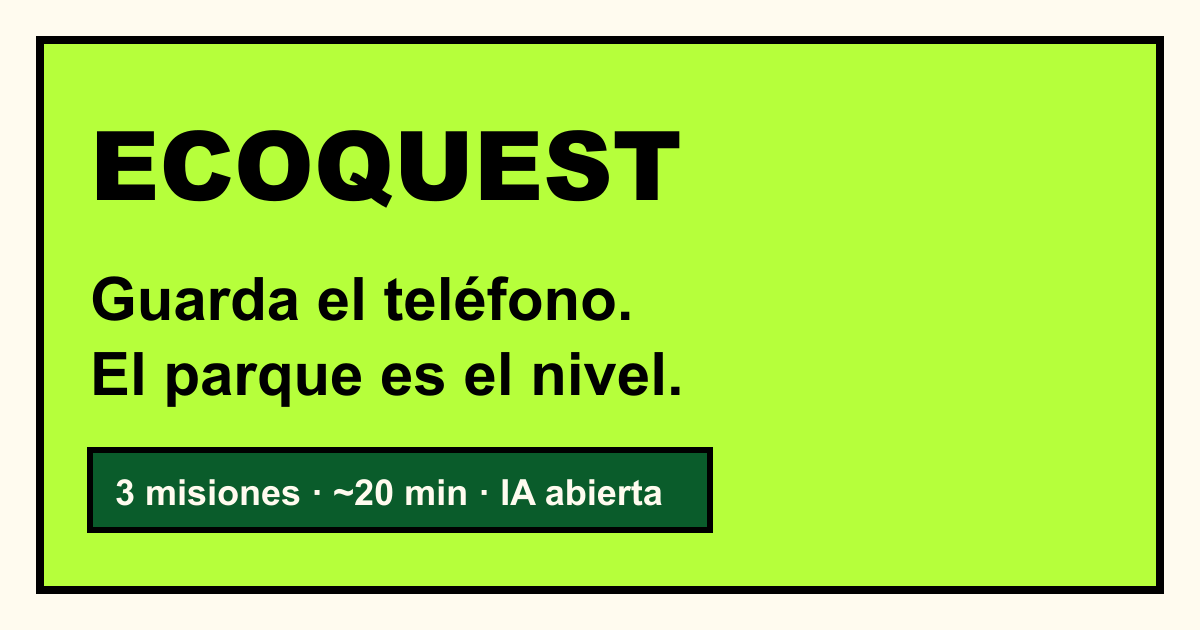
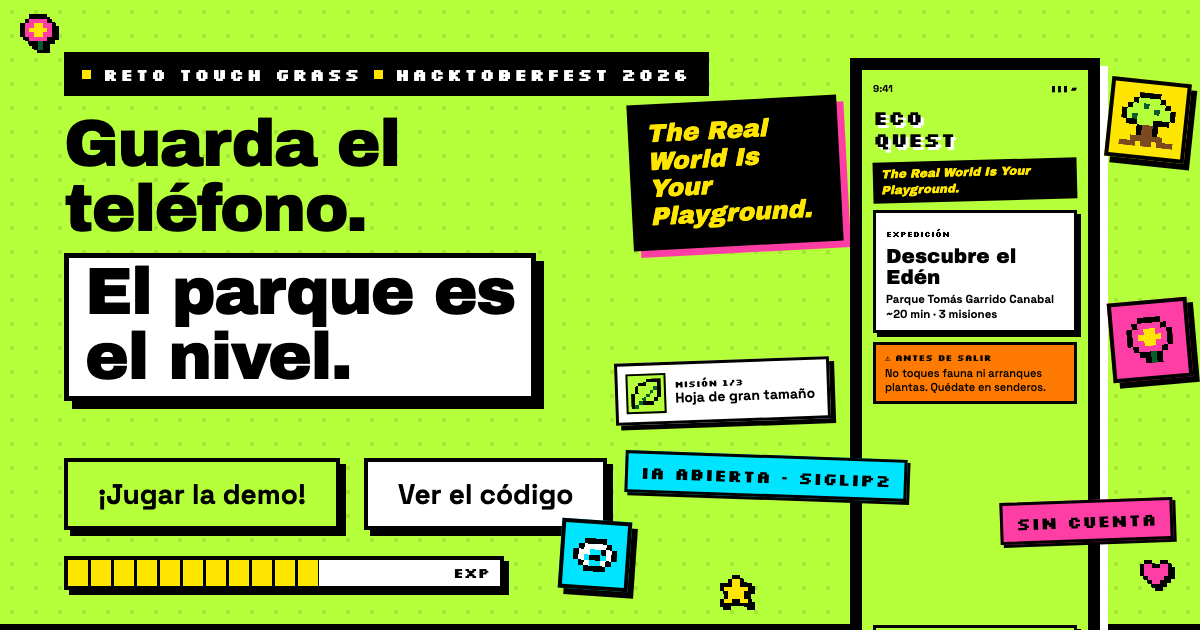
Web: nueva imagen OG basada en el hero de la landing
Reemplaza opengraph-image y twitter-image (1200x630) y agrega la fuente
editable en web/scripts/og-image.html.

diff --git a/web/scripts/og-image.html b/web/scripts/og-image.html
@@ -1,0 +1,69 @@
+<!doctype html>
+<html lang="es-MX"><head><meta charset="utf-8">
+<style>
+@import url("https://fonts.googleapis.com/css2?family=Archivo+Black:ital@0;1&family=Silkscreen:wght@700&family=Space+Grotesk:wght@500;700&display=swap");
+*{box-sizing:border-box;margin:0;padding:0}
+html,body{width:1200px;height:630px;overflow:hidden}
+body{position:relative;background:#B6FF3B;font-family:"Space Grotesk",sans-serif;color:#000;
+  background-image:radial-gradient(#A4E635 2px,transparent 2.5px);background-size:24px 24px}
+.px{position:absolute;image-rendering:pixelated;filter:drop-shadow(3px 3px 0 #000)}
+.eyebrow{position:absolute;left:64px;top:52px;background:#000;color:#fff;font:700 17px "Silkscreen",monospace;letter-spacing:2.5px;padding:11px 18px;display:flex;align-items:center;gap:12px}
+.eyebrow i{width:9px;height:9px;background:#FFE600;display:block}
+h1{position:absolute;left:64px;top:112px;font:400 66px/.98 "Archivo Black",sans-serif;letter-spacing:-1.6px}
+h1 span{display:inline-block;margin-top:12px;background:#fff;border:5px solid #000;box-shadow:8px 8px 0 #000;padding:2px 16px 6px}
+.btn{position:absolute;left:64px;top:458px;font:700 28px "Space Grotesk",sans-serif;background:#B6FF3B;border:4px solid #000;box-shadow:6px 6px 0 #000;padding:14px 30px}
+.btn2{left:364px;background:#fff}
+.xp{position:absolute;left:64px;top:556px;width:440px;height:34px;border:4px solid #000;background:#fff;box-shadow:5px 5px 0 #000}
+.xp b{position:absolute;inset:0 auto 0 0;width:58%;background:repeating-linear-gradient(90deg,#FFE600 0 20px,#000 20px 23px)}
+.xp em{position:absolute;right:10px;top:4px;font:700 14px "Silkscreen",monospace;font-style:normal}
+.sticker{position:absolute;font:700 17px "Silkscreen",monospace;letter-spacing:.5px;border:3px solid #000;padding:7px 13px;box-shadow:3px 3px 0 #000;white-space:nowrap}
+.quote{position:absolute;left:630px;top:100px;width:210px;background:#000;color:#FFE600;padding:16px 18px 20px;transform:rotate(-3deg);box-shadow:7px 7px 0 #FF3EA5;font:italic 400 25px/1.1 "Archivo Black",sans-serif;z-index:1}
+.phone{position:absolute;left:850px;top:58px;width:250px;height:640px;background:#000;border:0;padding:12px;box-shadow:8px 8px 0 #fff;z-index:2}
+.screen{background:#B6FF3B;height:100%;padding:12px 11px;display:flex;flex-direction:column;gap:9px}
+.sbar{display:flex;justify-content:space-between;font-size:10px;font-weight:700;margin-bottom:2px}
+.logo{font:700 20px/1.12 "Silkscreen",monospace;text-shadow:3px 3px 0 #fff}
+.tag{align-self:flex-start;background:#000;color:#FFE600;font:italic 400 12px/1.3 "Archivo Black",sans-serif;padding:5px 8px;transform:rotate(-1.5deg)}
+.card{background:#fff;border:3px solid #000;box-shadow:4px 4px 0 #000;padding:8px 10px}
+.card small{font:700 8px "Silkscreen",monospace}
+.card h3{font:400 20px/1.05 "Archivo Black",sans-serif;margin:4px 0}
+.card p{font-size:11.5px;font-weight:700;line-height:1.3}
+.safety{background:#FF7A00;border:3px solid #000;padding:7px 9px;font-size:11px;font-weight:500;line-height:1.3}
+.safety b{display:block;font:700 9px "Silkscreen",monospace;margin-bottom:3px}
+.go{margin-top:auto;text-align:center;background:#B6FF3B;border:3px solid #000;box-shadow:4px 4px 0 #000;font:700 18px "Space Grotesk";padding:10px}
+.mission{position:absolute;left:615px;top:360px;width:215px;background:#fff;border:3px solid #000;box-shadow:5px 5px 0 #000;padding:8px;display:flex;gap:9px;align-items:center;transform:rotate(-2deg);z-index:3}
+.mission .ic{width:40px;height:40px;border:2px solid #000;background:#B6FF3B;display:flex;align-items:center;justify-content:center}
+.mission small{font:700 9px "Silkscreen",monospace;display:block}
+.mission b{font-size:14px;line-height:1.15;display:block}
+.tile{position:absolute;border:4px solid #000;box-shadow:6px 6px 0 #000;display:flex;align-items:center;justify-content:center;z-index:3}
+.tile img{image-rendering:pixelated}
+</style></head><body>
+<img class="px" src="../public/landing/icons/flower.svg" width="36" height="36" style="left:20px;top:14px">
+
+<div class="eyebrow"><i></i>RETO TOUCH GRASS<i></i>HACKTOBERFEST 2026</div>
+<h1>Guarda el<br>teléfono.<br><span>El parque es<br>el nivel.</span></h1>
+<div class="btn">¡Jugar la demo!</div>
+<div class="btn btn2">Ver el código</div>
+<div class="xp"><b></b><em>EXP</em></div>
+
+<div class="quote">The Real World Is Your Playground.</div>
+<div class="phone"><div class="screen">
+  <div class="sbar"><span>9:41</span><span>▮▮▮ ▰</span></div>
+  <div class="logo">ECO<br>QUEST</div>
+  <div class="tag">The Real World Is Your Playground.</div>
+  <div class="card"><small>EXPEDICIÓN</small><h3>Descubre el Edén</h3><p>Parque Tomás Garrido Canabal<br>~20 min · 3 misiones</p></div>
+  <div class="safety"><b>⚠ ANTES DE SALIR</b>No toques fauna ni arranques plantas. Quédate en senderos.</div>
+  <div class="go">¡Comenzar!</div>
+</div></div>
+
+<div class="mission"><div class="ic"><img src="../public/landing/icons/leaf.svg" width="30" height="30" style="image-rendering:pixelated"></div><div><small>MISIÓN 1/3</small><b>Hoja de gran tamaño</b></div></div>
+
+<div class="tile" style="left:1108px;top:80px;width:80px;height:80px;background:#FFE600;transform:rotate(6deg)"><img src="../public/landing/icons/tree.svg" width="54" height="54"></div>
+<div class="tile" style="left:1110px;top:300px;width:80px;height:80px;background:#FF3EA5;transform:rotate(-5deg)"><img src="../public/landing/icons/flower.svg" width="46" height="46"></div>
+<div class="tile" style="left:560px;top:520px;width:70px;height:70px;background:#00E5FF;transform:rotate(4deg)"><img src="../public/landing/icons/eye.svg" width="44" height="44"></div>
+
+<span class="sticker" style="left:625px;top:455px;background:#00E5FF;transform:rotate(2deg);z-index:4">IA ABIERTA · SIGLIP2</span>
+<span class="sticker" style="left:1000px;top:500px;background:#FF3EA5;transform:rotate(-2deg);z-index:4">SIN CUENTA</span>
+<img class="px" src="../public/landing/icons/heart.svg" width="32" height="32" style="left:1140px;top:560px">
+<img class="px" src="../public/landing/icons/star.svg" width="32" height="32" style="left:720px;top:575px">
+<div style="position:absolute;left:0;right:0;bottom:0;height:6px;background:#000"></div>
+</body></html>
